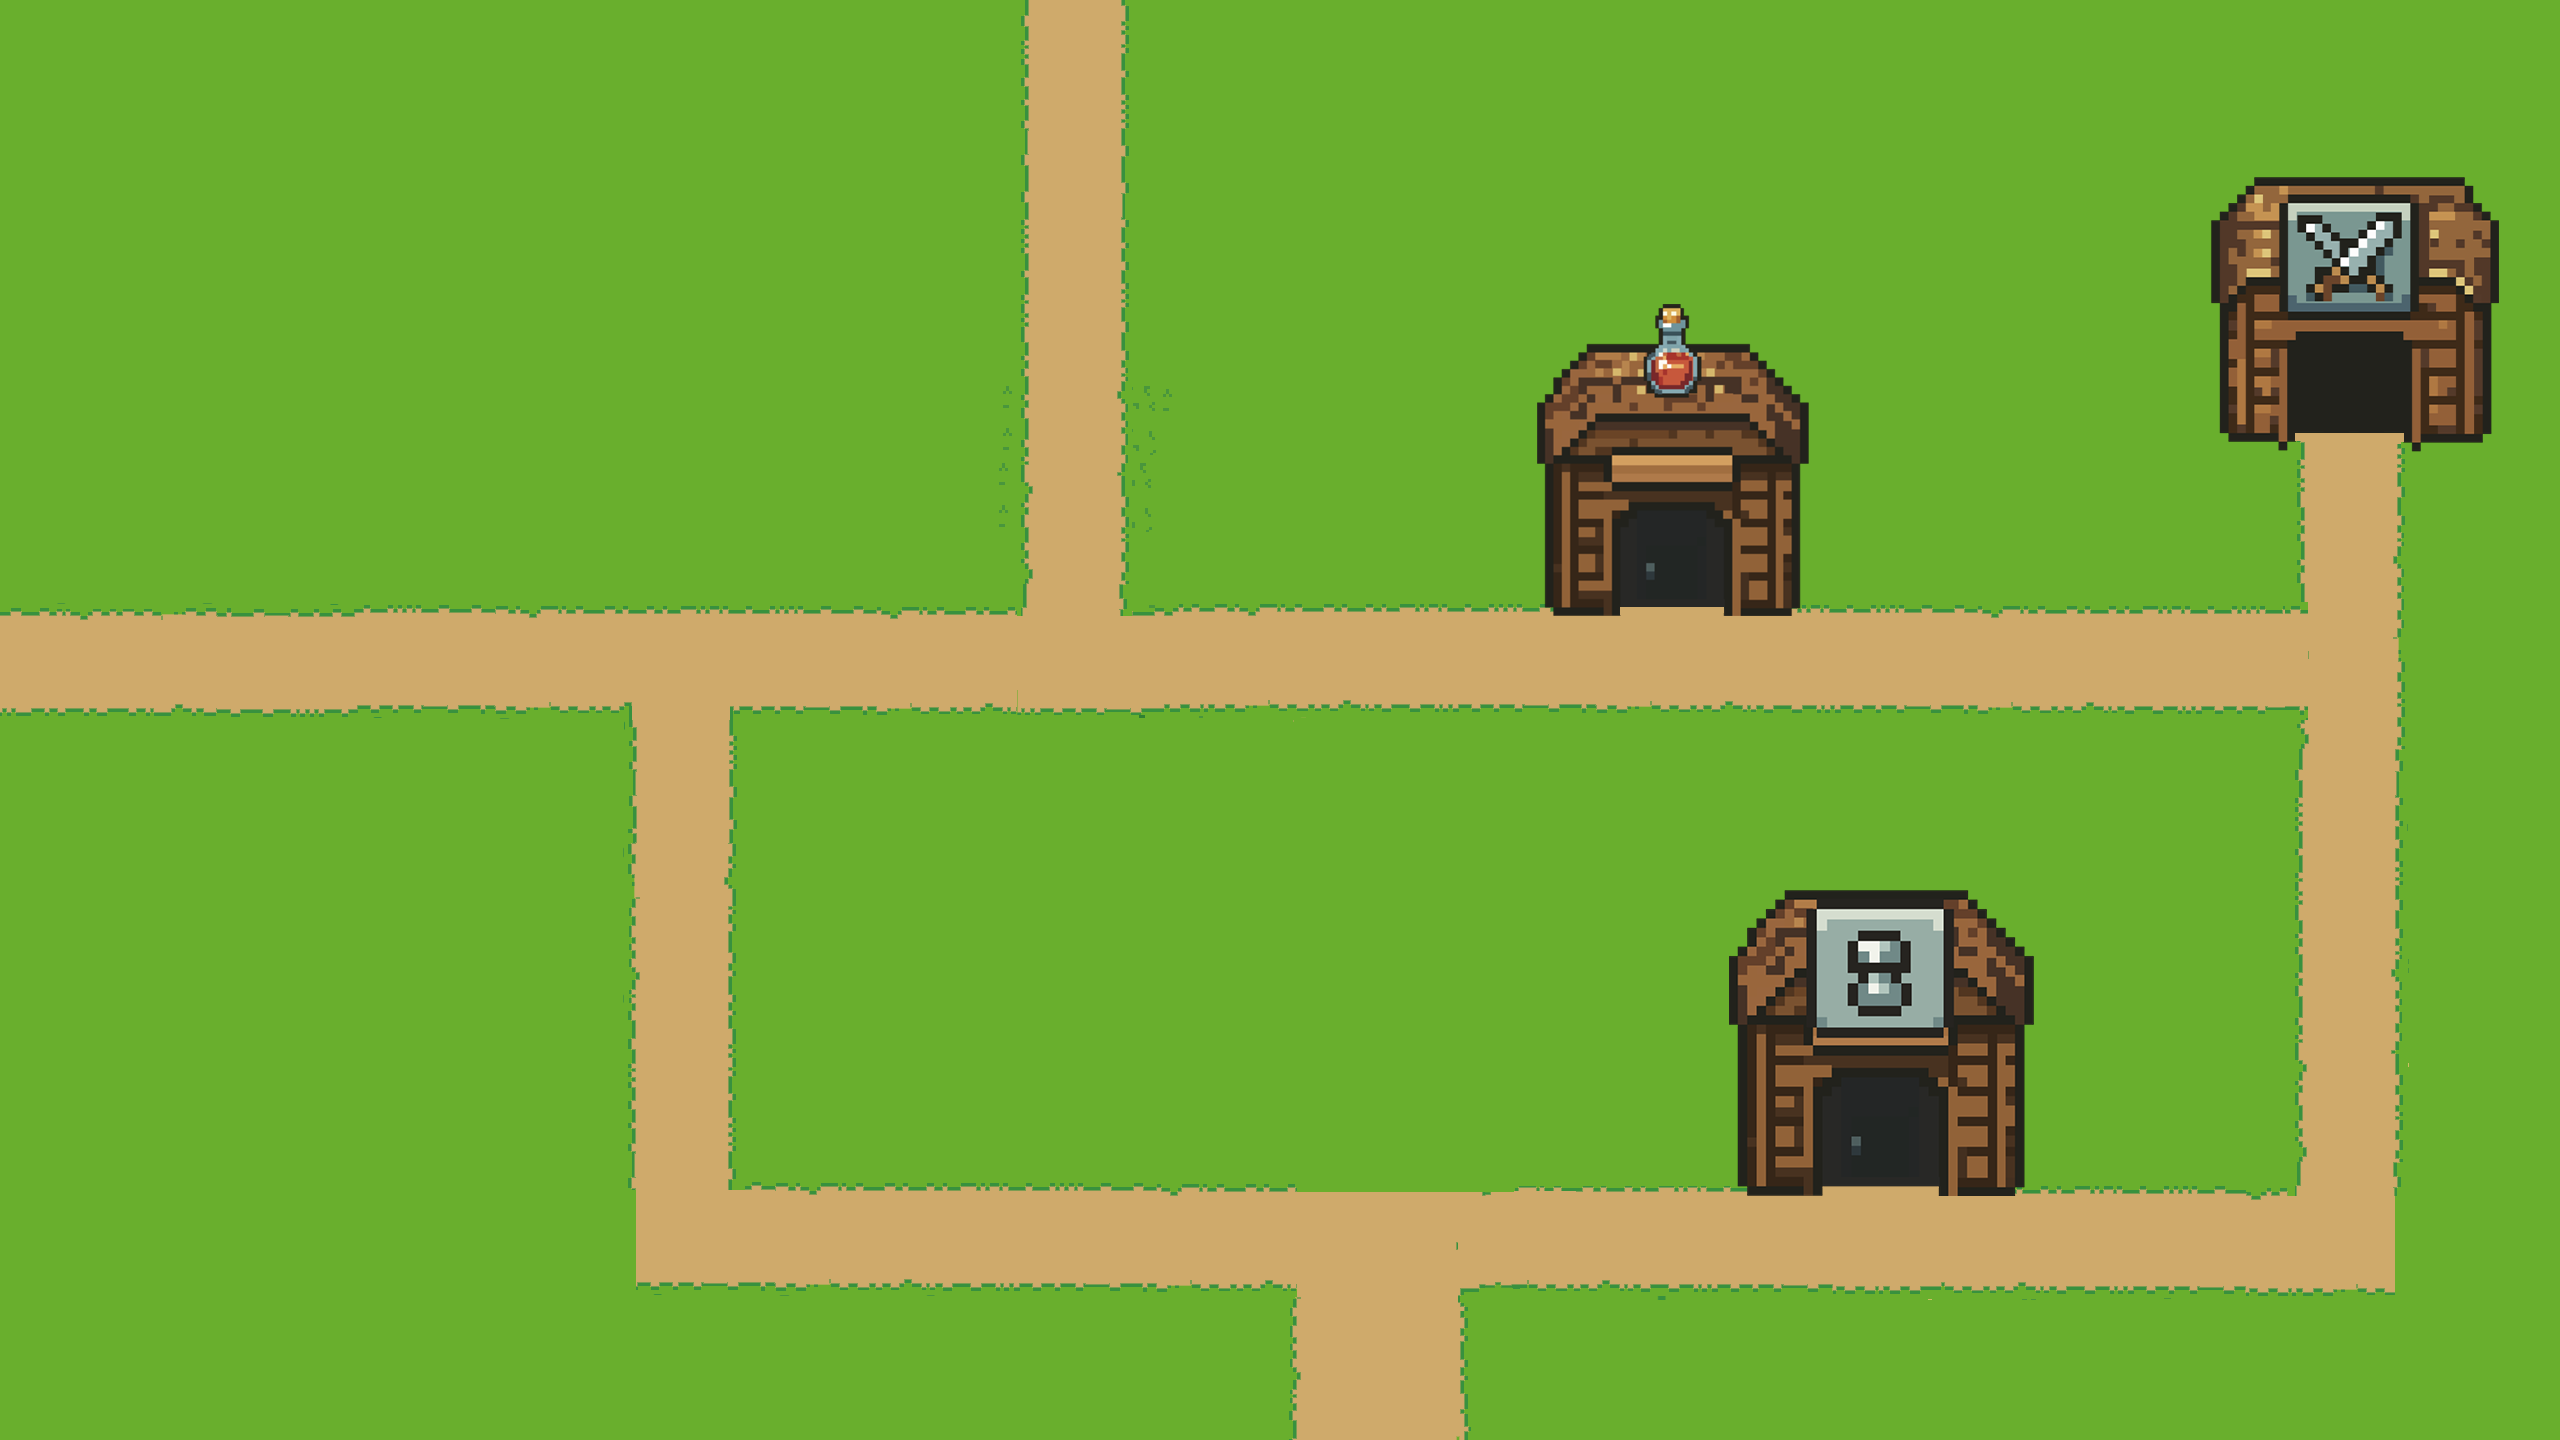
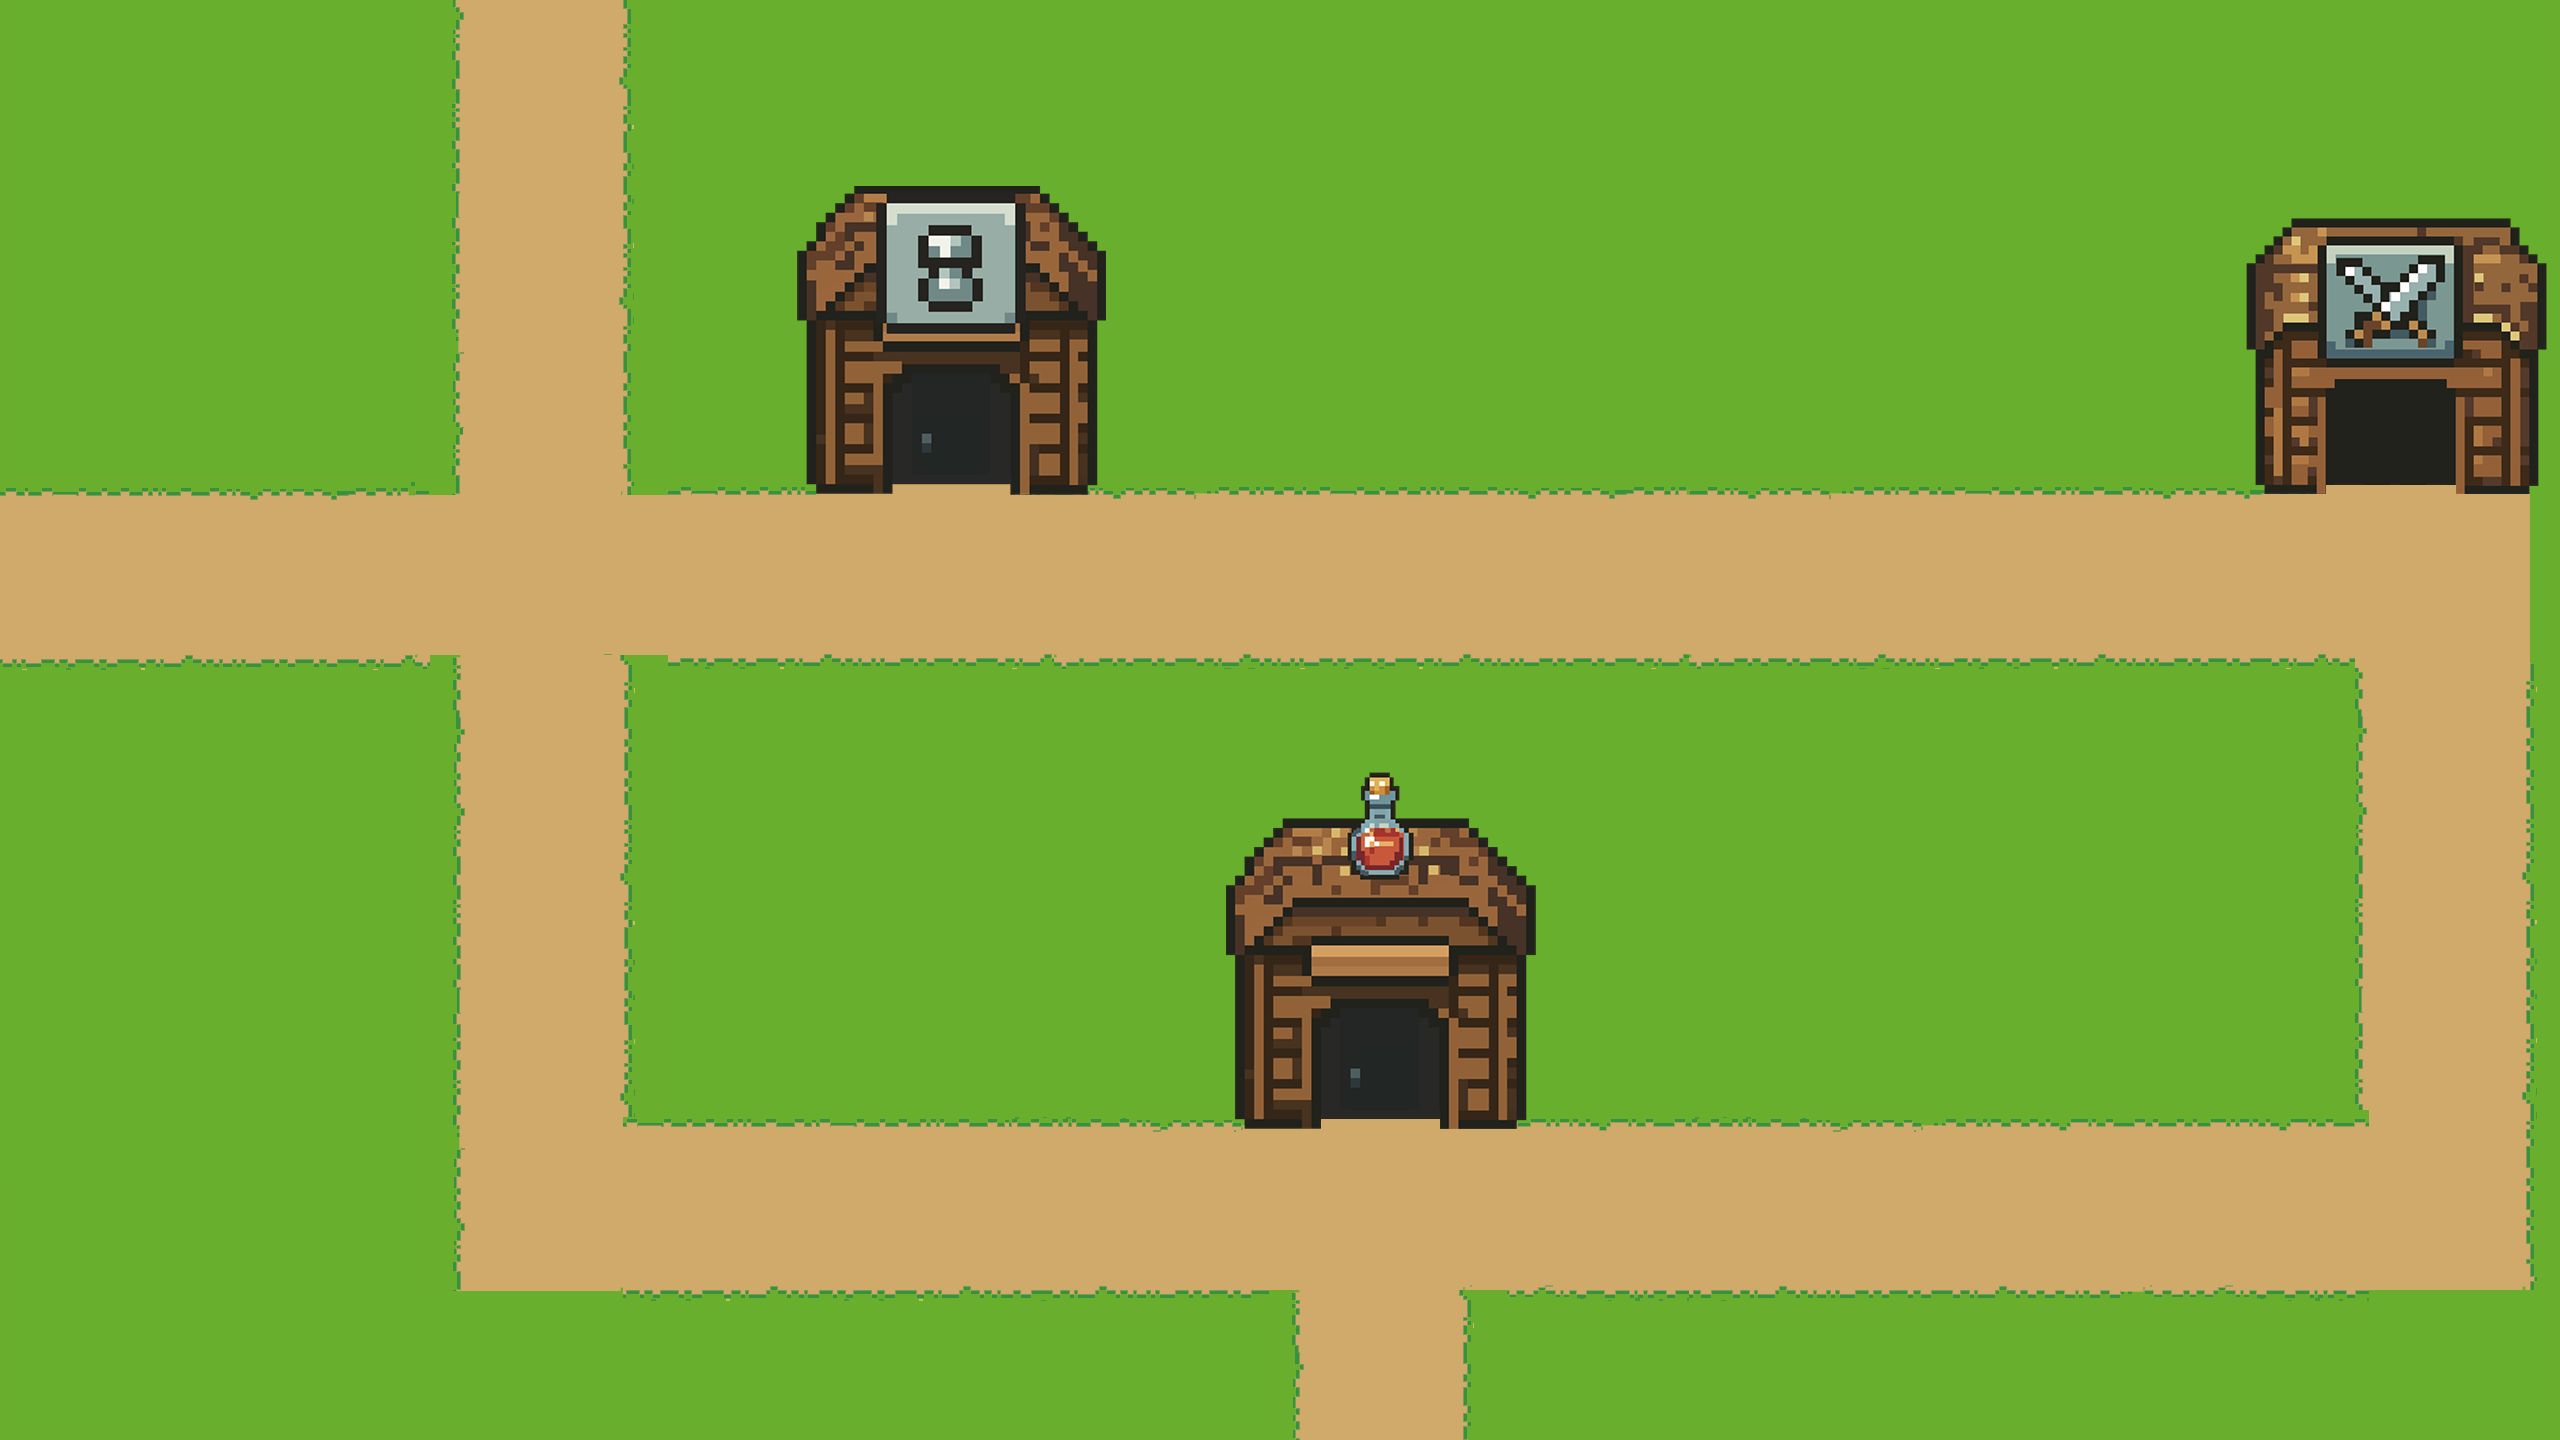
grass and maps updated

diff --git a/scriptCleaner.js b/scriptCleaner.js
@@ -17,6 +17,7 @@ let start = true;
 let rewardType;
 let screen = 1;
 
+
 //list of objects in game
 let grass = []
 let homes = []
@@ -176,25 +177,49 @@ function loop() {
 
 
 function update() {
+
+    
+
     let inGrassSpeed = 1
-
-
     if (start) {
-        screen = 1
-        screenChange(1)
+        screen = 2
+        screenChange(2)
         start = false
     }
     if ((player.y <= -82) && (player.x >= 967) && (player.x <= 1150) && screen === 1) {
         screen = 2
         screenChange(2)
+        player.y = 909
     }
     if ((player.y >= 963) && (player.x >= 933) && (player.x <= 1105) && screen === 2) {
         screen = 1
         screenChange(1)
+        player.y = -60
+    }
+    if ((player.y <= -81) && (player.x >= 996) && (player.x <= 1128) && screen === 2) {
+        screen = 3
+        screenChange(3)
+        player.y = 909
+    }
+
+    if ((player.y >= 976) && (player.x >= 999) && (player.x <= 1137) && screen === 3) {
+        screen = 2
+        screenChange(2)
+        player.y = -69
+        
     }
 
 
 
+
+    //calculate grass so it can effect movement
+    grass.forEach(grass => {
+        if (collisionDetectionOverlap(player, grass)) {
+            inGrassSpeed = 0.7;
+        }
+
+        
+    });
 
 
     //movement
@@ -231,11 +256,8 @@ function update() {
 
 
     //foreach stuff
-    grass.forEach(grass => {
-        if (collisionDetectionOverlap(player, grass)) {
-            inGrassSpeed = 0.7;
-        }
-    });
+
+
 
     enemy.forEach(attacker => {
         if (attacker.cooldown > 0) {
@@ -351,6 +373,7 @@ function update() {
 
 
 function render() {
+
     let scaleFactor = 0.35;
     let scaledWidth = frameWidth * scaleFactor;
     let scaledHeight = frameHeight * scaleFactor;
@@ -387,15 +410,15 @@ function render() {
 
     });
 
-    barrier.forEach(bar => {
-        context.fillStyle = "red";
-        context.fillRect(bar.x, bar.y, bar.width, bar.height)
-    });
+    // barrier.forEach(bar => {
+    //     context.fillStyle = "red";
+    //     context.fillRect(bar.x, bar.y, bar.width, bar.height)
+    // });
 
-    door.forEach(door => {
-        context.fillStyle = "orange";
-        context.fillRect(door.x, door.y, door.width, door.height);
-    });
+    // door.forEach(door => {
+    //     context.fillStyle = "orange";
+    //     context.fillRect(door.x, door.y, door.width, door.height);
+    // });
 
     treasure.forEach(loot => {
 
@@ -413,9 +436,19 @@ function render() {
             treasureImage.src = "img/rewards/coin.png";
         }
 
-        console.log(treasureImage)
+
         context.drawImage(treasureImage, loot.x, loot.y, loot.width, loot.height);
     });
+
+    grass.forEach(grass => {
+        if (collisionDetectionOverlap(player, grass)) {
+            inGrassSpeed = 0.7;
+        }
+        context.fillStyle = "orange";
+        context.fillRect(grass.x, grass.y, grass.width, grass.height);
+        
+    });
+
 
     context.drawImage(
         playerImage,
@@ -478,7 +511,7 @@ function screenChange(screen) {
         case 1:
             bg = new Image();
             bg.src = "img/bg/Homebg.png";
-            player.y = -60
+            
             grass = [
                 createGrass(980, 409, 0, 0),
                 createGrass(1040, 409, 0, 560),
@@ -502,13 +535,13 @@ function screenChange(screen) {
             ]
             break;
         case 2:
-            player.y = 909
+            
 
             grass = [
-                createGrass(1030, 330, 0, 0),
-                createGrass(870, 330, 1155, 0),
-                createGrass(870, 160, 0, 480),
-                createGrass(770, 160, 1255, 480),
+                createGrass(1020, 300, 0, 0),
+                createGrass(860, 300, 1165, 0),
+                createGrass(780, 90, 0, 510),
+                createGrass(810, 90, 1210, 510),
                 createGrass(870, 210, 1155, 785),
                 createGrass(870, 210, 0, 785),
             ];
@@ -525,8 +558,27 @@ function screenChange(screen) {
             bg = new Image();
             // bg.src = "img/bg/bg3.png";
 
-            bg.src = "img/bg/town.png";
+            bg.src = "img/bg/pathways.png";
 
+            break;
+        case 3:
+
+            
+
+            grass = [
+                createGrass(350, 550, 0, 470),
+                createGrass(350, 260, 0, 0),
+                createGrass(1520, 260, 505, 0),
+                createGrass(1355, 230, 505, 465),
+                createGrass(670, 90, 350, 900),
+                createGrass(850, 90, 1170, 900),
+            ]
+            homes = []
+            barrier = []
+            door = []
+            enemy = []
+            bg = new Image();
+            bg.src = "img/bg/town.png";
             break;
         case 101:
             bg = new Image();
@@ -668,7 +720,7 @@ function playerAttack() {
 function updateCooldown(percent) {
 
     let mutiple = player.permanentCooldown / 100
-    console.log(player.playerAttackCooldown)
+
     percent = percent * mutiple
 
 
@@ -699,12 +751,12 @@ function enemyDie(attacker) {
         treasure = [createTreasure(attacker.x, attacker.y, 50, 50, "gem")]
 
         rewardType = Math.floor(Math.random() * (10 - 0 + 1)) + 0;
-     
+
     }
     else {
         treasure = [createTreasure(attacker.x, attacker.y, 50, 50, "coin")]
 
-       
+
 
     }
 
